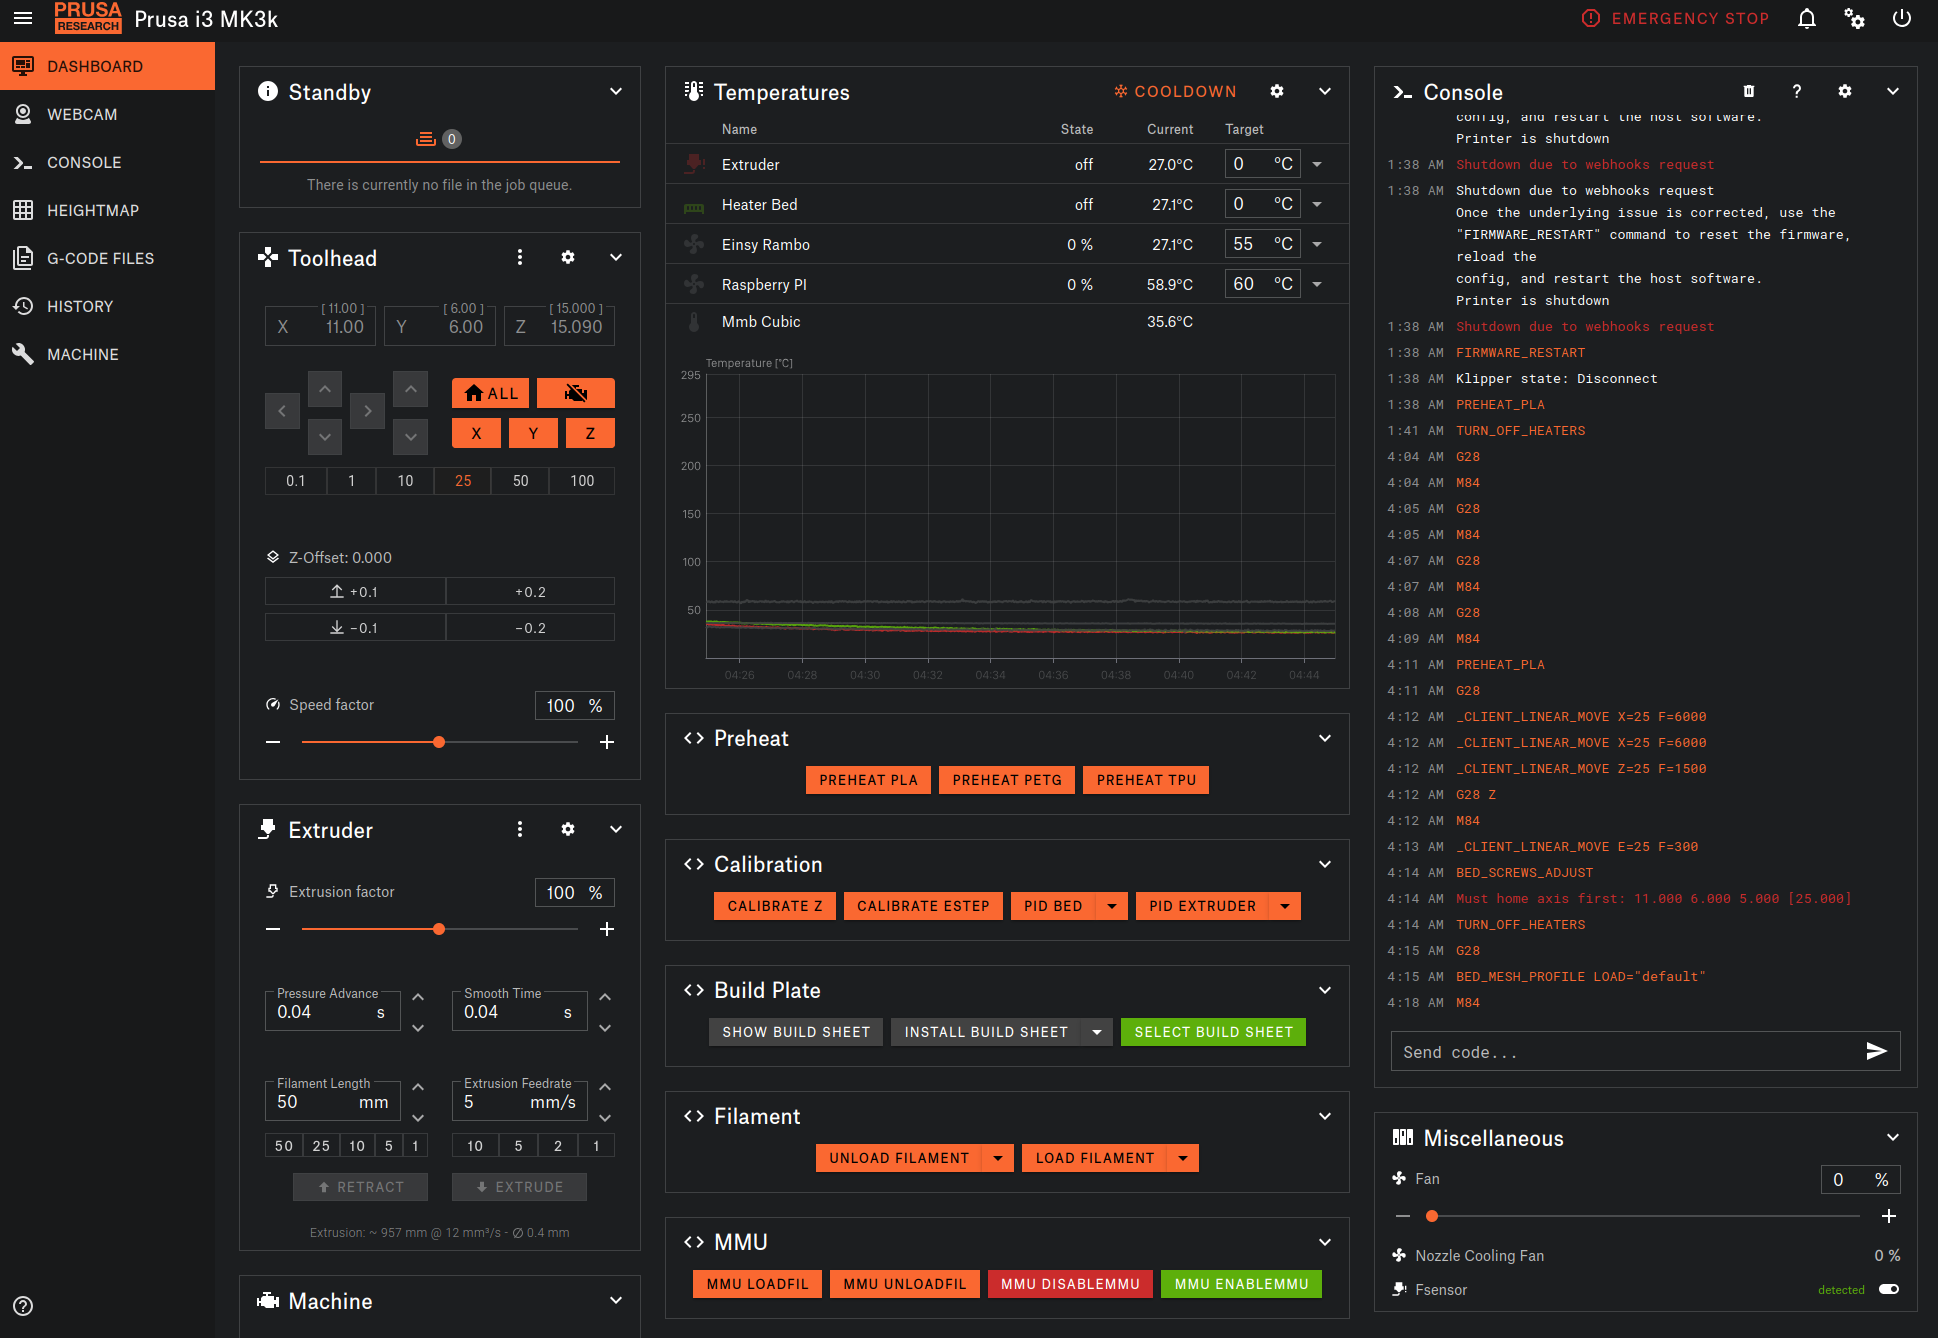
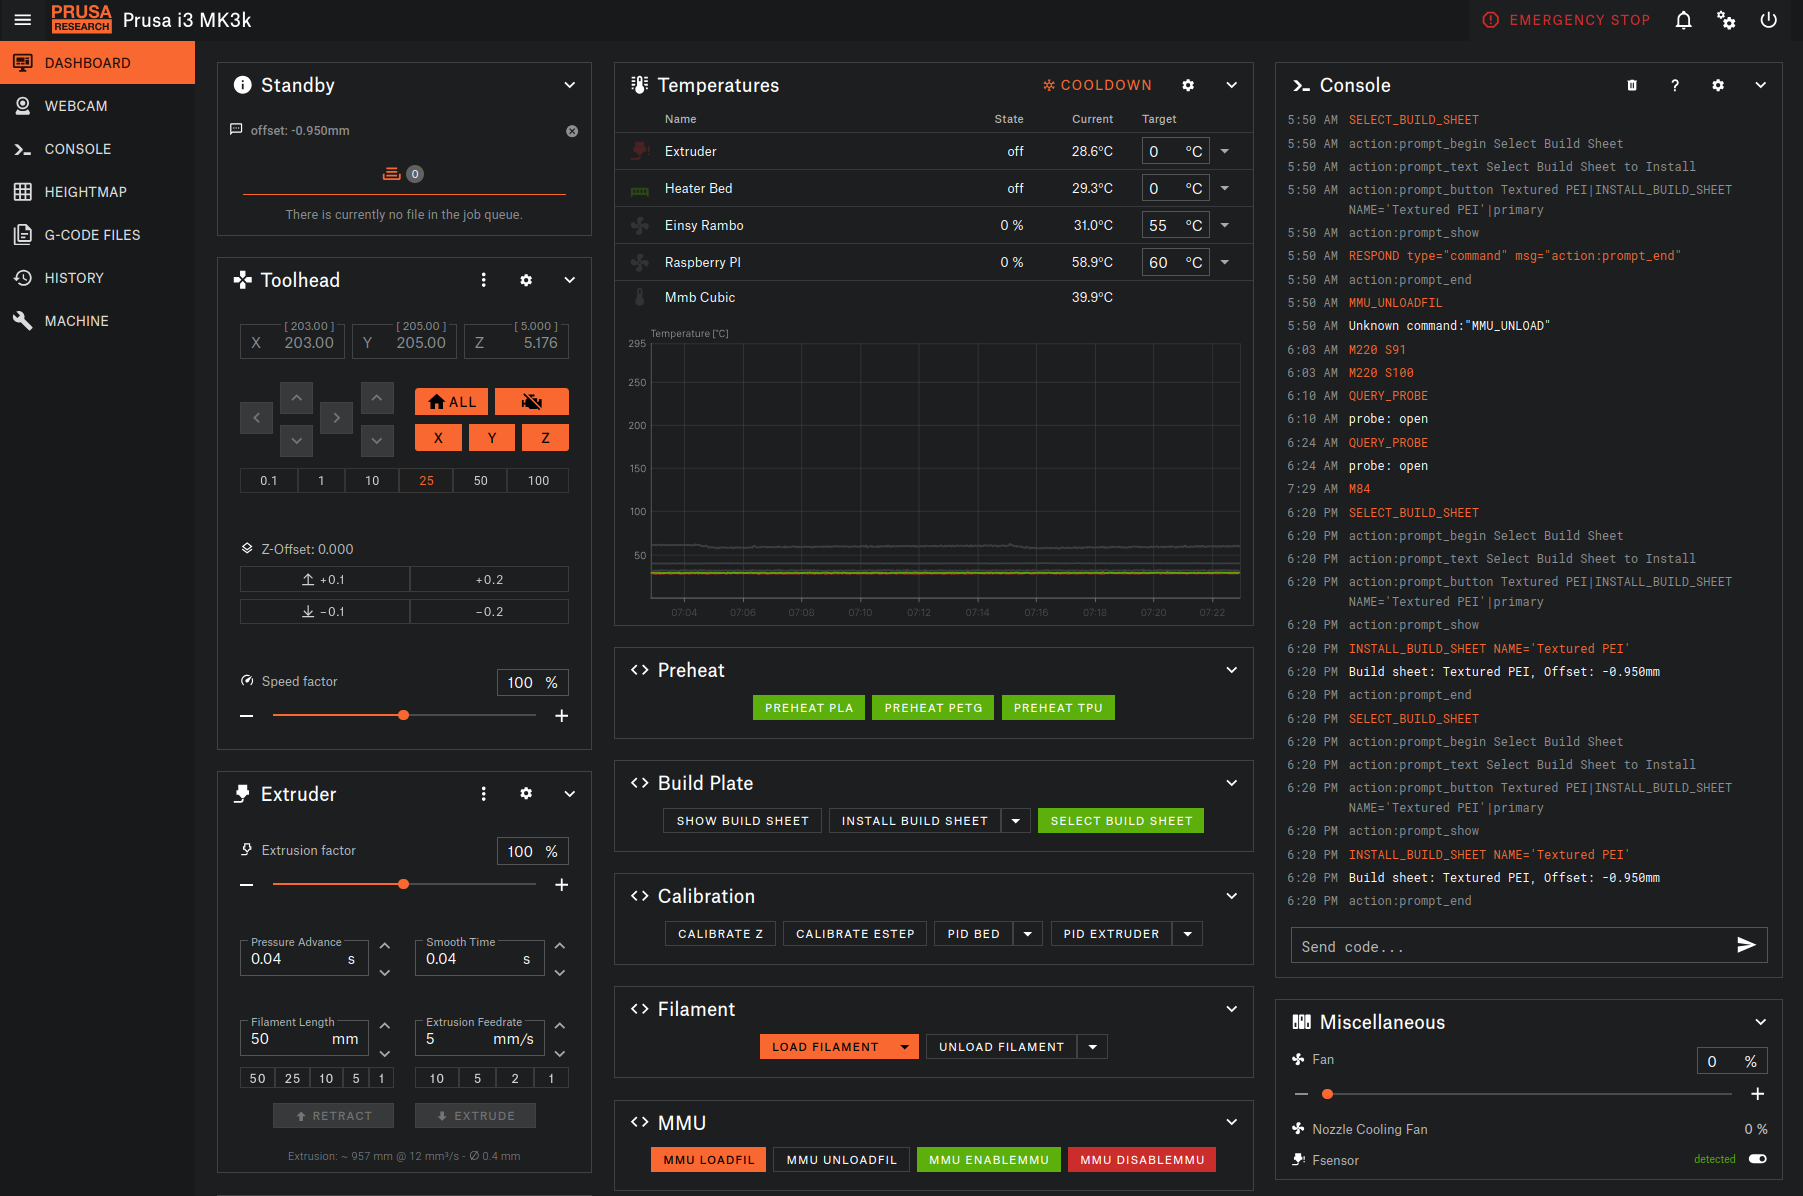
more tweaks

diff --git a/custom.css b/custom.css
@@ -1,4 +1,5 @@
 :root {
+    --v-info-base: #fa6831;
     --v-warning-base: #fa6831;
     --v-error-base: #cb2c2c;
 
@@ -179,5 +180,22 @@ tr:hover,
 
 .v-btn.v-item--active::before {
     opacity: 0 !important;
+}
+
+.v-application .v-btn.primary {
+    color: white !important;
+    background-color: var(--p-background-dark) !important;
+    border: 1px solid var(--p-border) !important;
+}
+
+.v-application .v-btn.secondary {
+    color: white !important;
+    background-color: var(--p-background-dark) !important;
+    border: 1px solid white !important;
+}
+
+.v-application .v-btn.primary:hover,
+.v-application .v-btn.secondary:hover {
+    color: var(--v-warning-base) !important;
 }
 
